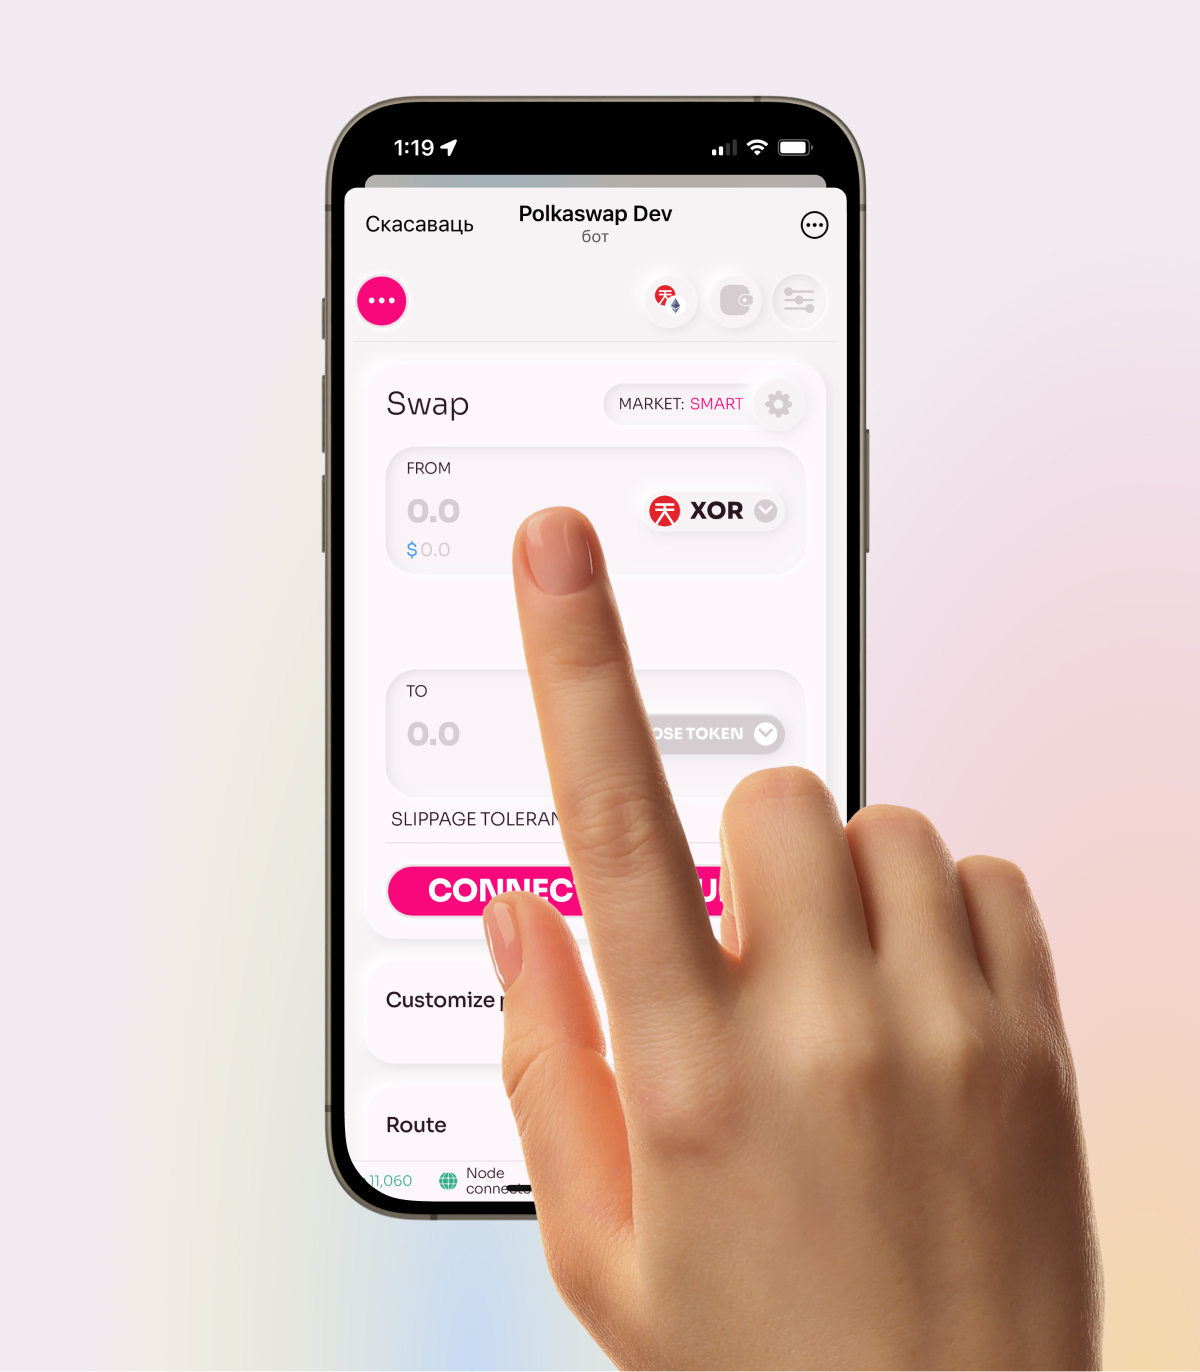
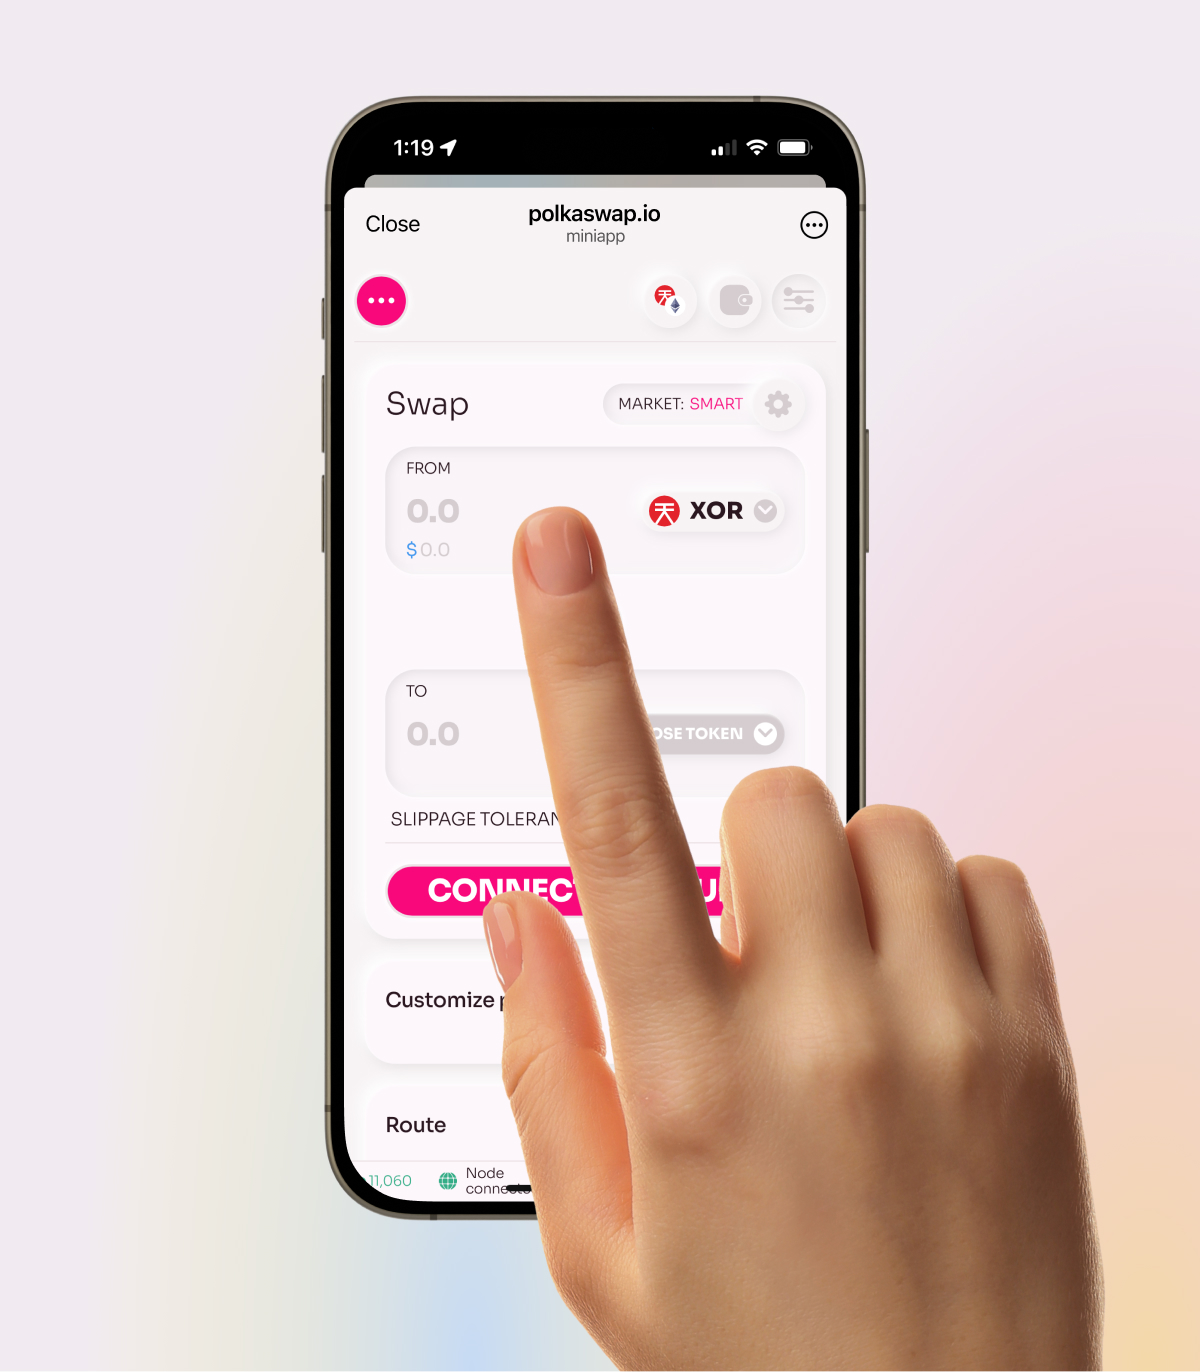
feat: upgrade miniapp info

diff --git a/src/components/AppsSection.vue b/src/components/AppsSection.vue
@@ -9,7 +9,7 @@ const items = [{
   image: { src: '/apps/fearless-wallet.jpg', alt: 'Fearless Wallet mobile app' }
 }, {
   title: 'Telegram App',
-  href: 'https://t.me/PolkaswapDevBot/app',
+  href: 'https://t.me/polkaswap_io_bot/app',
   image: { src: '/apps/telegram-app.jpg', alt: 'Polkaswap Telegram app' }
 }]
 </script>
